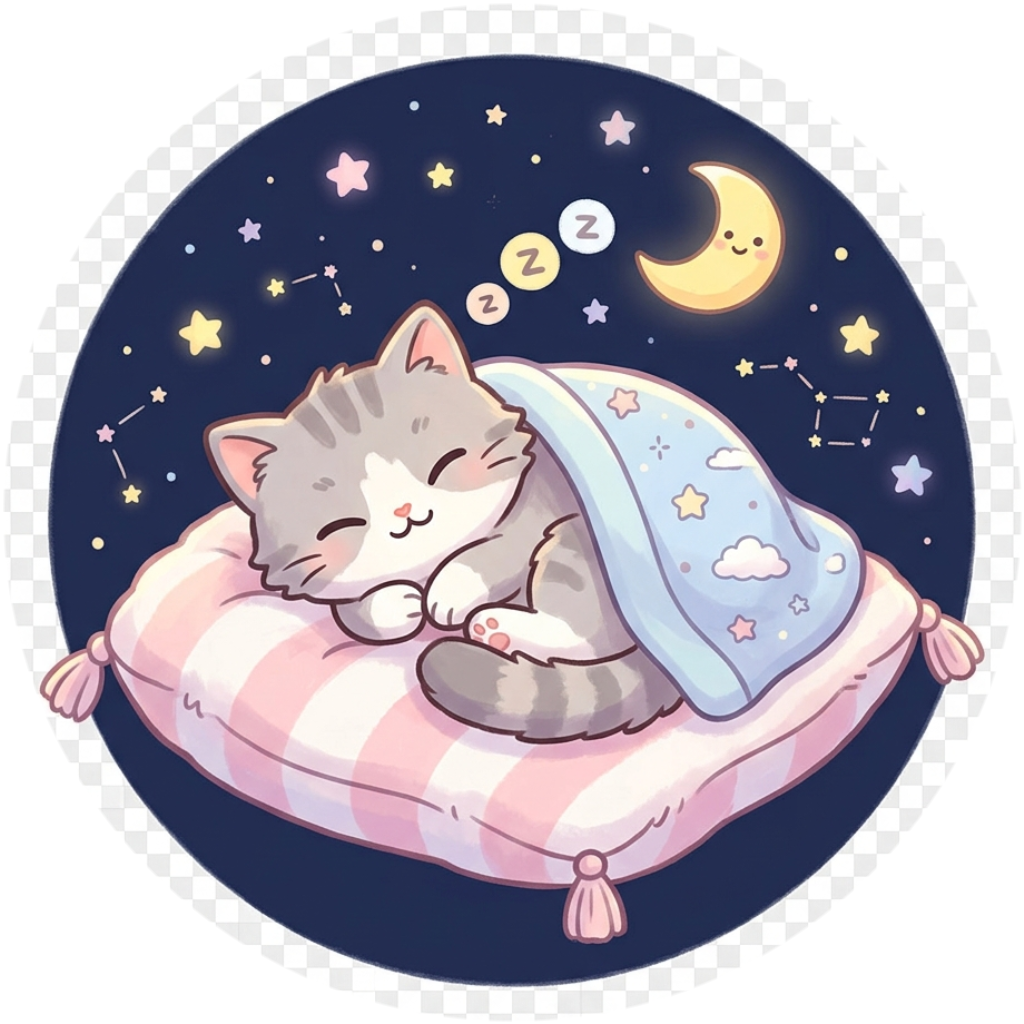
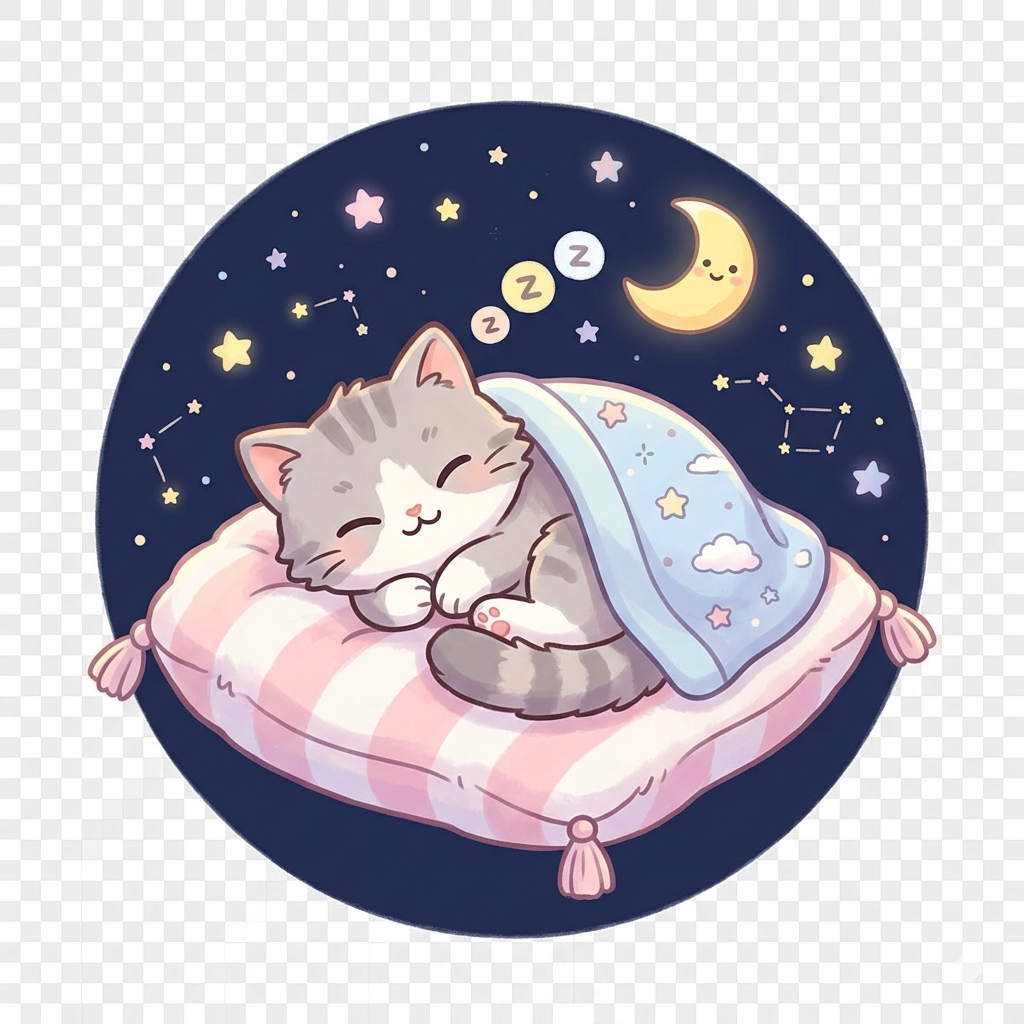
fix: クマ・ネコ画像の余白をscale(1.5)で強めにクロップ

diff --git a/index.html b/index.html
@@ -255,6 +255,9 @@
     object-fit: cover;
     transform: scale(1.05);
   }
+  .result-animal-img img.tight-crop {
+    transform: scale(1.5);
+  }
 
   .result-card {
     background: var(--bg-card);
@@ -659,6 +662,9 @@ function showResult() {
     const imgEl = document.createElement('img');
     imgEl.src = imgPath;
     imgEl.alt = animal.name;
+    if (resultKey === 'bear' || resultKey === 'cat') {
+      imgEl.classList.add('tight-crop');
+    }
     imgContainer.appendChild(imgEl);
   };
   img.onerror = () => {
